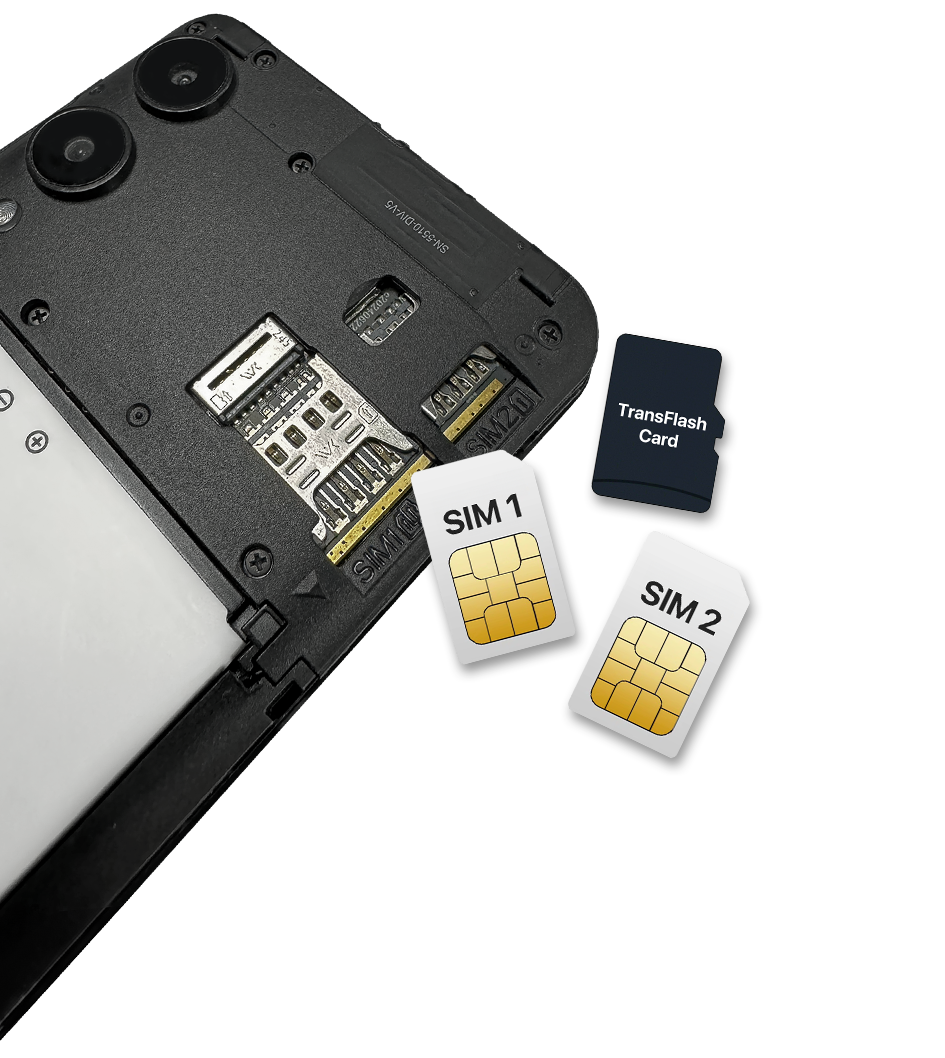
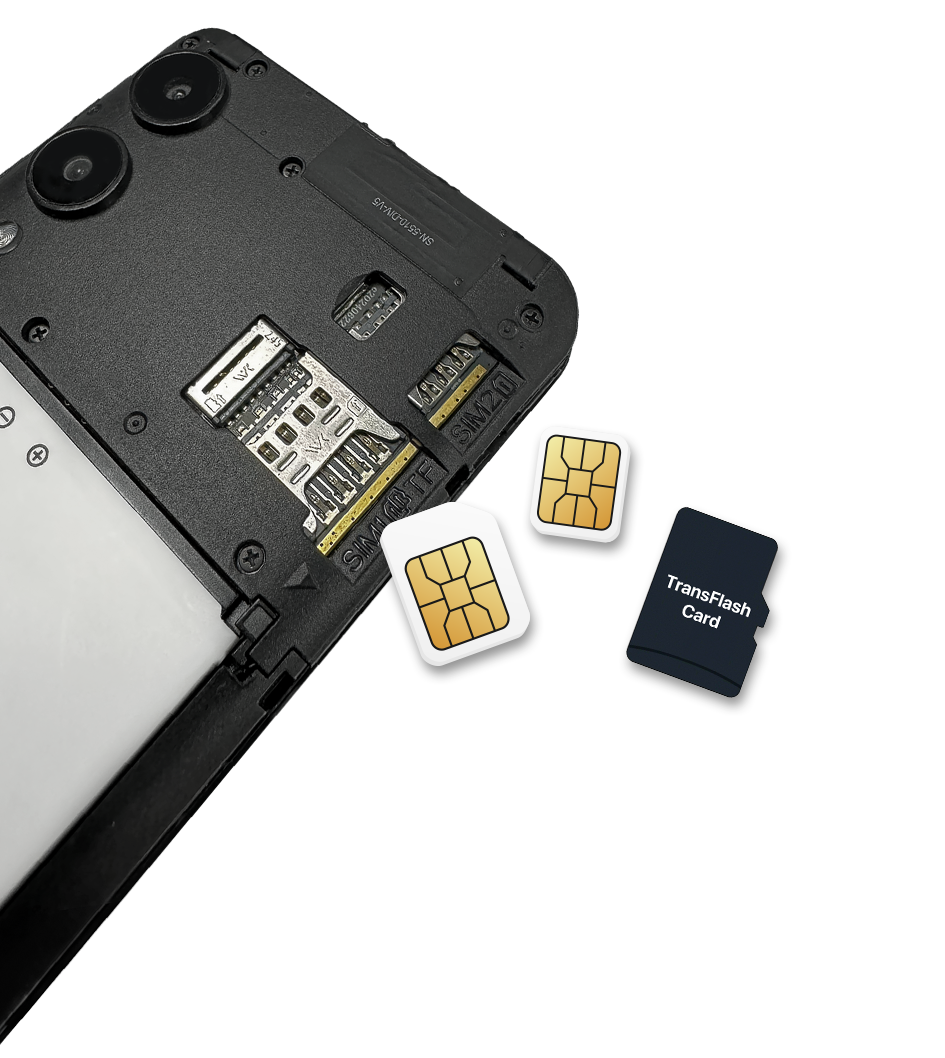
update feature-image-2

diff --git a/css/style.css b/css/style.css
@@ -299,7 +299,7 @@ a {
 
 .feature-background.visible .feature-image-2 {
     left: 0;
-    bottom: 28px;
+    bottom: 41px;
 }
 
 .feature-background.visible .feature-image-3 {
